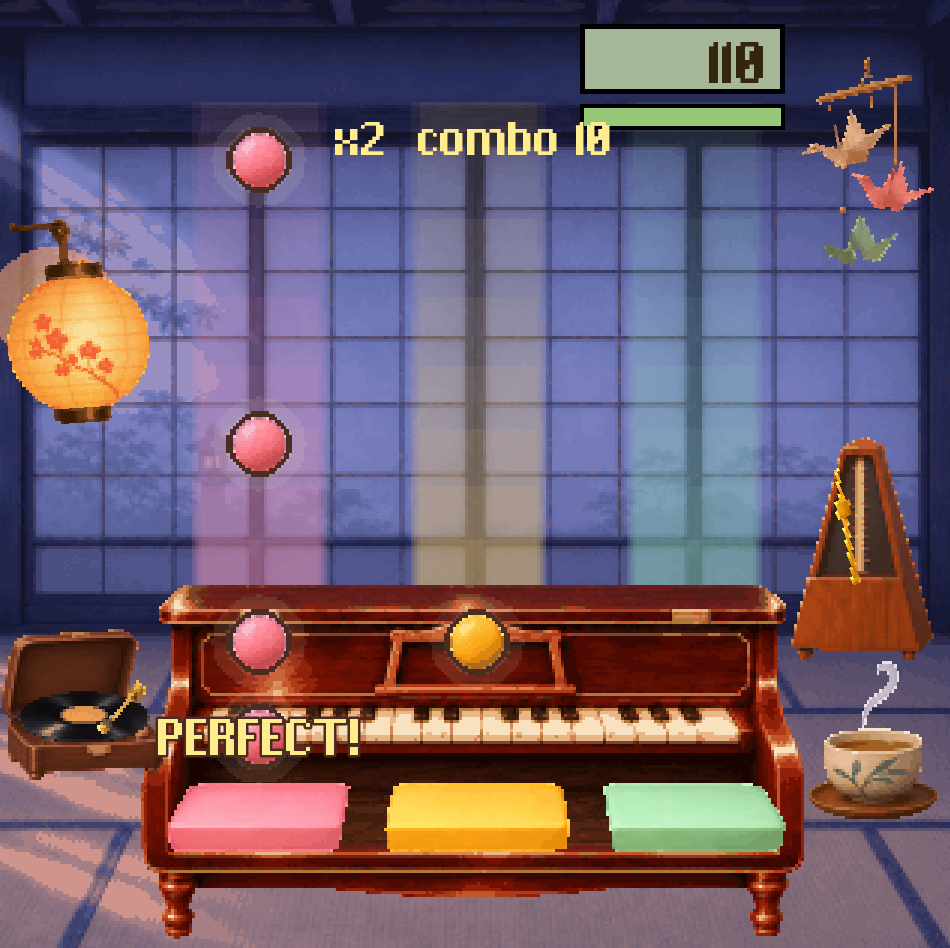
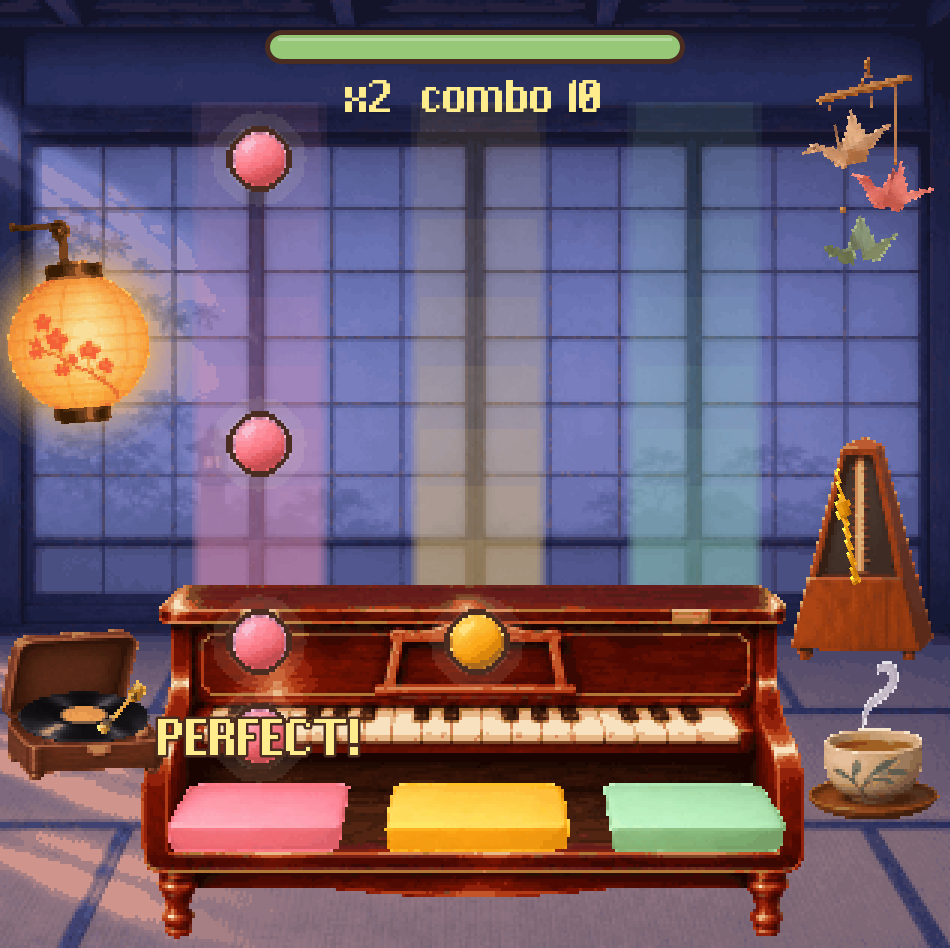
Tomo Tunes: no score on screen (the user: the score won't matter, the stars come from the notes hit); the groove meter centred at the top as a rounded pill; the piano lantern's light made to hug the lantern and swing with it (the user)

Changed region(s): [[0.2747, 0.0, 0.8242, 0.1835], [0.0, 0.2447, 0.2137, 0.4895], [0.2442, 0.1224, 0.2747, 0.153]]

diff --git a/tools/design/tunes_world.py b/tools/design/tunes_world.py
@@ -26,7 +26,7 @@ SRC = OUT = ''                        # (set per world in build())
 WORLDS = {
     'xylophone': dict(src='round1', frame='xylophone', bars='bar', even=True, wall_cut=1172, soft=[],
                       layers=['toy_kokeshi_bench', 'toy_kokeshi', 'toy_daruma', 'toy_ball', 'toy_maneki', 'toy_maneki_paw', 'toy_top', 'mallet']),
-    'piano': dict(src='round2', frame='piano', bars='key', even=False, wall_cut=0, colours=28, soft=['lantern_glow', 'tea_steam'],
+    'piano': dict(src='round2', frame='piano', bars='key', even=False, wall_cut=0, colours=28, halo=('lantern', 'lantern_glow'), soft=['lantern_glow', 'tea_steam'],
                   layers=['lantern_glow', 'record_player', 'record', 'record_arm', 'tea', 'tea_steam', 'metronome', 'metronome_needle',
                           'cranes_bar', 'crane_1', 'crane_2', 'crane_3', 'lantern'],
                   # The ornaments re-placed and enlarged by us (the user, 2026-11-13: "ornaments should be better
@@ -225,6 +225,26 @@ def build(world, cfg):
         im = np.zeros((h, LANE_W, 4), np.uint8); im[..., :3] = col; im[..., 3] = (a * 255).astype(np.uint8)
         Image.fromarray(im, 'RGBA').save(os.path.join(OUT, f'lane_{name}.png'))
         layout[f'lane_{name}'] = [int(round(cx - LANE_W / 2)), LANE_TOP, LANE_W, h]
+    # A lamp's light, made here to fit the lamp (the user, 2026-11-13, on the piano's lantern: "the light effect on
+    # the lantern should be more adapted to the lantern"; the painted glow was an off-centre patch cut by the
+    # canvas's edge): a round halo centred on the lamp's bright paper that hugs it, strongest at its edge, in its own colour.
+    if cfg.get('halo'):
+        lamp, name = cfg['halo']
+        rgb, mask = got[lamp]
+        lit = mask & (rgb[..., 0] > 0.8) & (rgb[..., 1] > 0.55)
+        ys, xs = np.nonzero(lit)
+        cy, cx0 = float(ys.mean()), float(xs.mean())
+        r_lamp = (xs.max() - xs.min() + 1) / 2.0
+        size = int(round(r_lamp * 2 * 1.75)) // 2 * 2
+        col = np.clip(np.median(rgb[lit], 0) * 255 * 1.08, 0, 255).astype(np.uint8)
+        d = np.hypot(*np.meshgrid(np.arange(size) - size / 2 + 0.5, np.arange(size) - size / 2 + 0.5))
+        # it hugs the lamp: strong right at the paper's edge, gone at 1.75 times its radius
+        a = np.clip((size / 2 - d) / (size / 2 - r_lamp * 0.9), 0, 1) ** 1.7 * 0.85
+        a = np.round(a * 12) / 12
+        im = np.zeros((size, size, 4), np.uint8); im[..., :3] = col; im[..., 3] = (a * 255).astype(np.uint8)
+        Image.fromarray(im, 'RGBA').save(os.path.join(OUT, name + '.png'))
+        layout[name] = [int(round(cx0 - size / 2)), int(round(cy - size / 2)), size, size]
+        layout['halo'] = [lamp, name]
     # the glow behind a falling note
     g = 40
     d = np.hypot(*np.meshgrid(np.arange(g) - g / 2 + 0.5, np.arange(g) - g / 2 + 0.5))

diff --git a/docs/tomo_tunes.md b/docs/tomo_tunes.md
@@ -217,6 +217,7 @@ Added 2026-11-13 (the user, after more play: "how the notes of the lead coincide
 | 2026-11-13 | After 2A on the phone (the user): (1) "dissonant notes should correspond to each instrument": from world 2 on the wrong notes are cut from the REAL instrument, the cleanest single note of a song's lead stem in each lane, with itself a semitone up (`FROM_STEM` in `tune_wrong.py`); the xylophone keeps its approved synthesised ones. (2) "easy mode does not correspond a lot with the actual notes ... medium I liked more": in a syncopated tune (more notes between the beats than on them) easy now plays the notes the tune LANDS on (the ones that ring longest), on the beat or between, never closer than 0.8 of a beat; other tunes keep the beats (1A, 1B). Easy also takes only the clear chords (9 in 2A, were 24), since the detector hears false ones |
 | 2026-11-13 | World 2's art (the toy piano): mock-up v3 approved (a blue-hour tatami room, a dark polished piano, a record player, tea, the metronome, paper cranes, a lantern; the user: "not everything has to be childish, xylophone will be the most childish one"), delivered as 25 layers in `docs/mockups/tomo_tunes/round2/`, keys equal and in place as asked. `tunes_world.py` now builds every world from one table (`WORLDS`); the game builds a song's room from its world's `layout.json` (`_build_world()`), moves its things by name (`_toys()`, `PIVOTS`), and shifts the score band where the art hangs something in the top right corner (`HUD_SHIFT`: the piano's cranes). In the code, not on the phone until the user's OK. Screens: `docs/mockups/tomo_tunes/in_game_world2_play.png`, `_miss.png` |
 | 2026-11-13 | World 2 on the phone (the user): "ornaments should be better distributed, move more at the rhythm and with a bit more of quality, targeting the xylophone levels". As painted they were small and all but one on the right. The tool now re-places and enlarges groups of layers (`groups` in `WORLDS`: the lantern mirrored to the left wall, the cranes, metronome, tea and record player 1.15 to 1.4 times bigger, 28 colours each), and in the game everything keeps the beat plainly: the cranes hop in turn, the metronome, the tea and the record player squash on the beat, the lantern swings and its light pulses |
+| 2026-11-13 | The lantern's light (the user: "should be more adapted to the lantern"): the painted glow was an off-centre patch cut by the canvas edge; the tool now makes a round halo that hugs the lamp, strongest at its paper's edge (`halo` in `WORLDS`), and the game hangs it on the lamp so it swings with it and swells on the beat. NO SCORE ON SCREEN (the user: "we said the score won't finally matter"; the stars come from the notes hit): the score box is gone in every world; the groove meter is the only HUD, a rounded pill centred at the top (`GROOVE_W` 420 px), the combo under it. The score band's shift for the piano's cranes is no longer needed |
 
 ## 6d. How each new song is made (the workflow)
 
